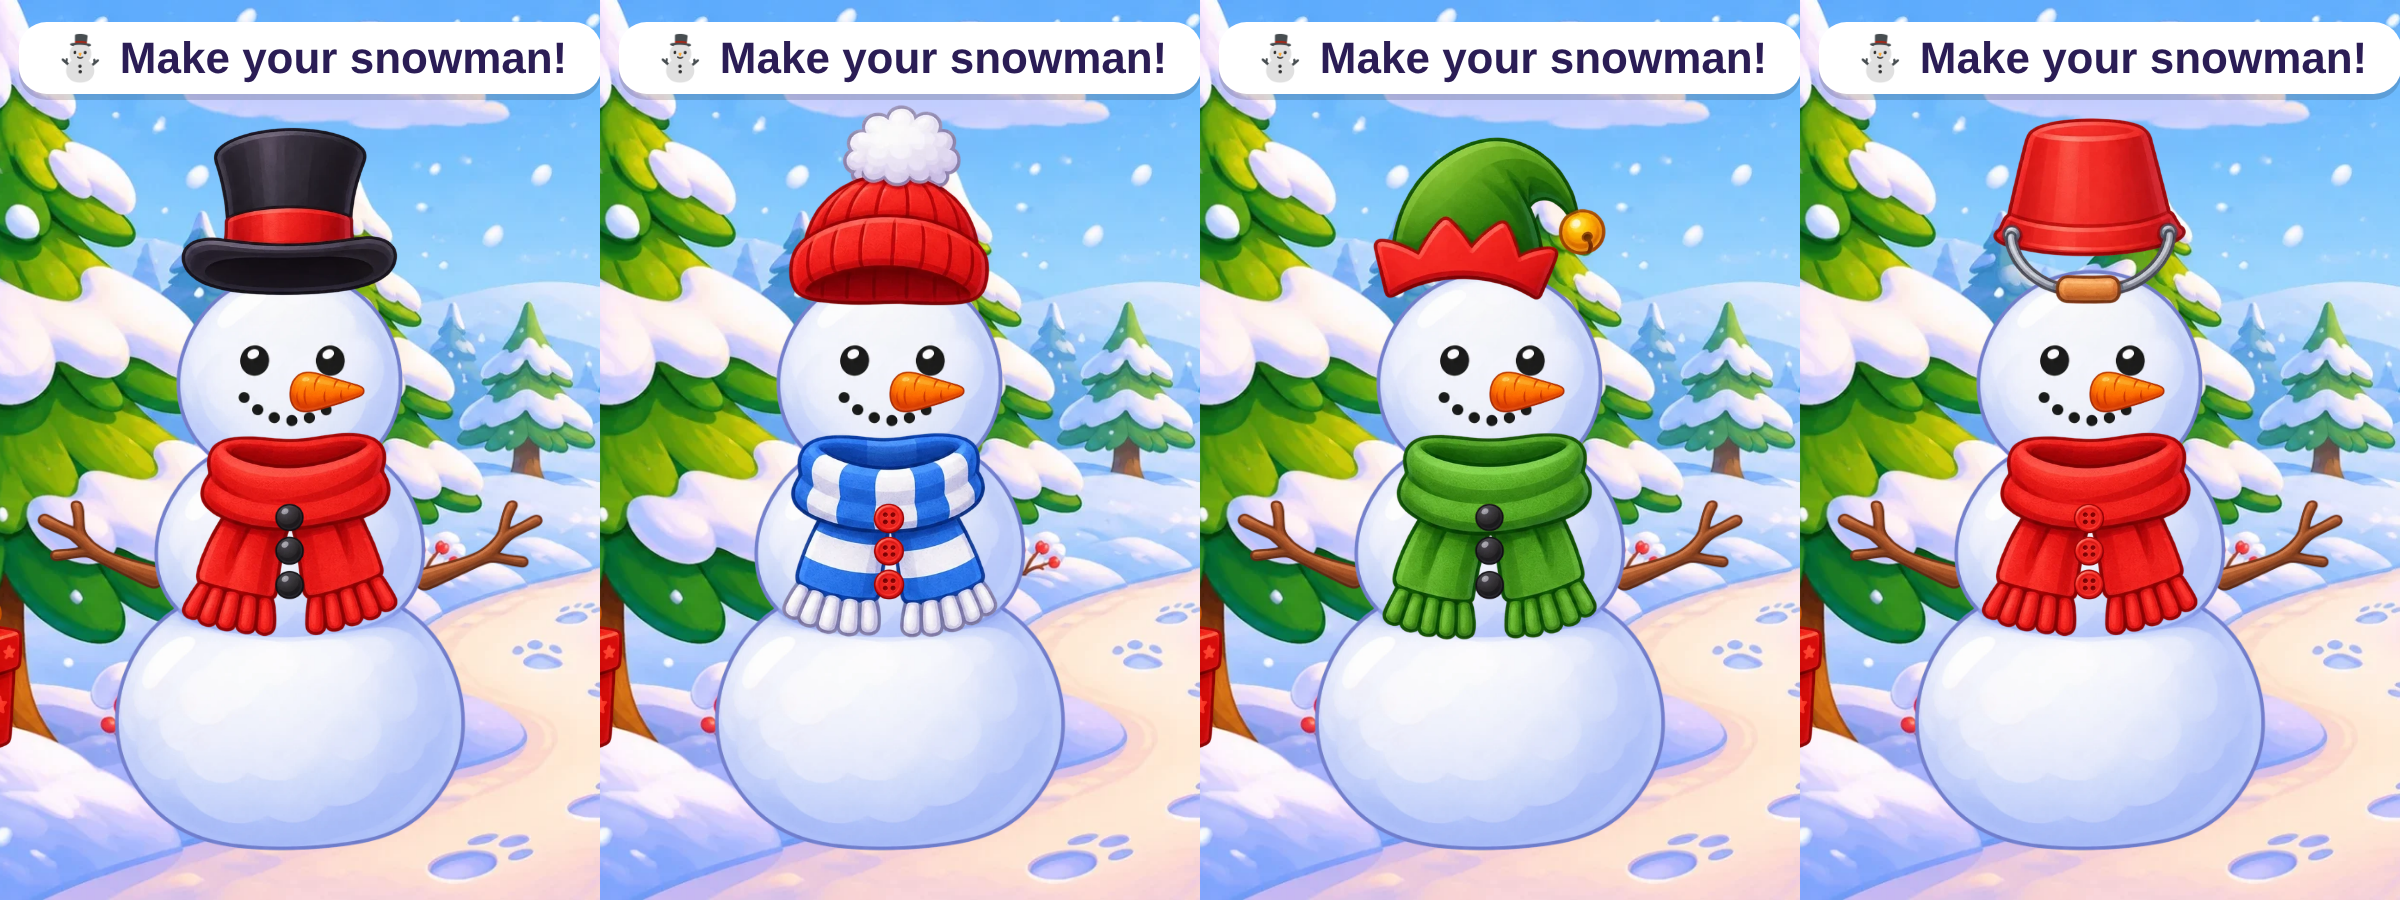
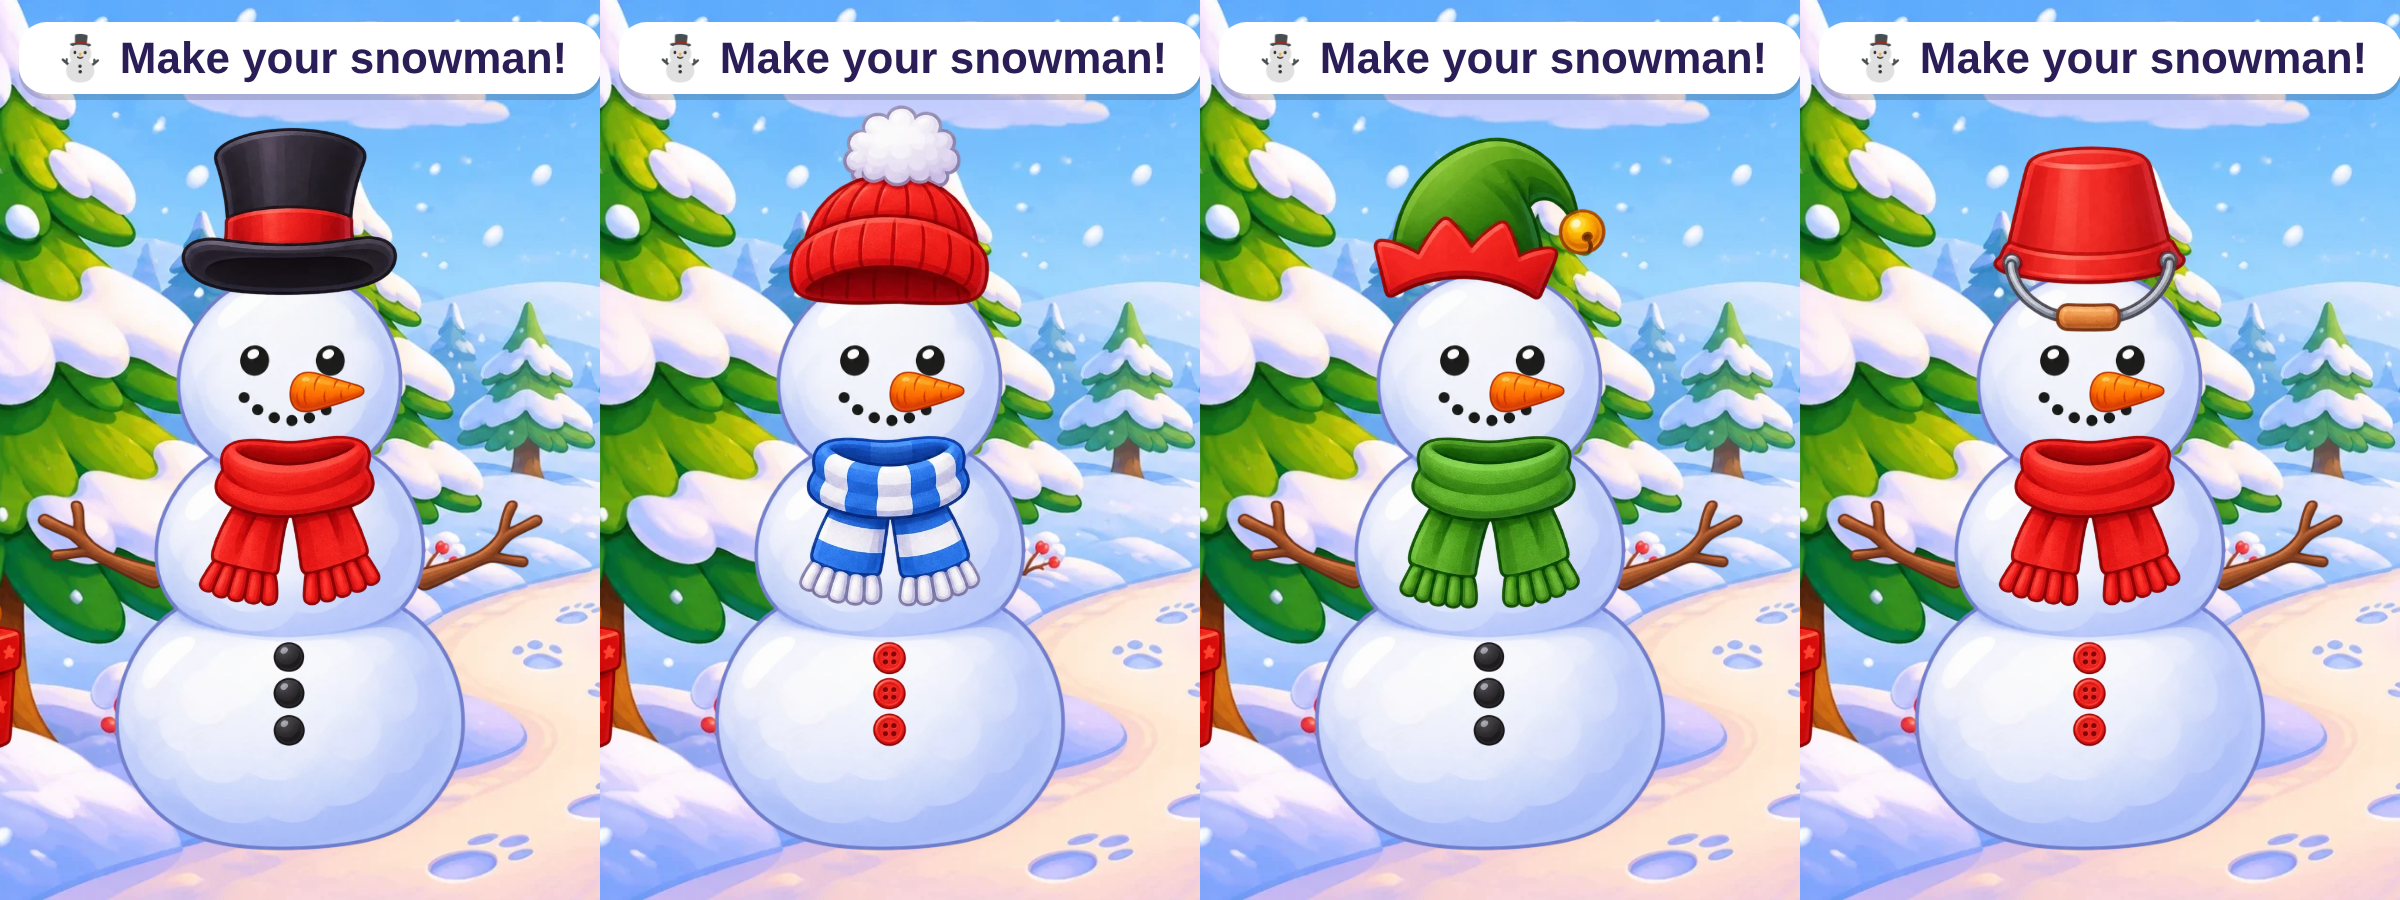
New Year 4-6: снеговик — пуговицы на нижний ком, шарф уже; промпт 14 (звёзды с настроением)
Claude-Session: https://claude.ai/code/session_019ZphQUTHZfoLTjHoCTTcK2

diff --git a/lessons/newyear/4-6.html b/lessons/newyear/4-6.html
@@ -365,8 +365,8 @@ $('stage').addEventListener('pointerdown',e=>{if(ORDER[cur]==='torch'){tMouse=pt
 const SM_W=975,SM_H=1508,SMS=420/975;
 const PARTS={nose:{k:['sm_nose'],w:195,x:476,cy:365,ax:0,z:6},
  hat:{k:['sm_tophat','sm_beanie','sm_elfhat','sm_bucket'],w:{sm_tophat:560,sm_beanie:520,sm_elfhat:600,sm_bucket:500},bottom:{sm_tophat:170,sm_beanie:190,sm_elfhat:180,sm_bucket:250},z:7},
- scarf:{k:['sm_scarf_red','sm_scarf_blue','sm_scarf_green'],w:560,top:430,z:5},
- buttons:{k:['sm_buttons_black','sm_buttons_red'],h:250,cx:486,top:610,z:6},
+ scarf:{k:['sm_scarf_red','sm_scarf_blue','sm_scarf_green'],w:470,top:440,z:5},
+ buttons:{k:['sm_buttons_black','sm_buttons_red'],h:270,cx:486,top:930,z:6},
  arm_l:{k:['sm_arm_left'],w:330,right:215,top:600,z:0},arm_r:{k:['sm_arm_right'],w:330,left:760,top:600,z:0}};
 const NAT={};
 function slotRect(type,k){const P=PARTS[type],n=NAT[k];const ar=n.h/n.w;let w,h,l,t;

diff --git a/builds/newyear/4-6/prompty.md b/builds/newyear/4-6/prompty.md
@@ -77,3 +77,9 @@ Row 1, left to right: an open yellow umbrella; a warm red knitted scarf lying fo
 Row 2, left to right: a red knitted winter hat with a white pompom; a silver cooking pot with a lid; a wicker basket.
 Transparent background, no background at all, cut-out PNG with alpha channel, no shadow. No text, no letters, no labels, no numbers.
 ```
+
+## 14. Звёздочки с настроением — для «How are you?» (вместо тыкв Halloween)
+
+```
+Use the attached dragon picture only as a STYLE reference: the same cute 3D cartoon look, soft rounded shapes, bright friendly colours, clean studio lighting. Draw a sheet of three cute golden five-pointed stars with faces, in one row, left to right: 1) a very happy star with a big open smile and rosy cheeks; 2) a sad star with a down-turned mouth and one small tear; 3) an angry star with frowning eyebrows and a pouting mouth, cheeks slightly red. All three the same size, same golden colour and same shape, only the face differs. Transparent background, no background at all, cut-out PNG with alpha channel, no floor, no shadow on the ground. Wide empty gaps between the stars, every star complete and not touching any other star or the edge. No text, no letters, no labels, no numbers.
+```

diff --git a/builds/zhdem_ot_anny.md b/builds/zhdem_ot_anny.md
@@ -80,8 +80,7 @@
 ## Чат «Halloween (курс Holidays)» — теперь и New Year
 
 
-🔴 **35.** Снеговик: четыре сочетания шапки, шарфа и пуговиц — так ли собирается (`builds/newyear/4-6/snegovik_prevyu.png`).
-🔴 **36.** Все экраны урока 4–6 на скриншотах — что поправить (`builds/newyear/4-6/ekrany_1.png`, `ekrany_2.png`).
+🔴 **37.** Сгенерировать промпт 14 — три звёздочки с настроением для «How are you?» (текст — в чате и в `builds/newyear/4-6/prompty.md`).
 
 Концепция New Year — `builds/newyear/koncepciya.md`, решения — `builds/newyear/resheniya.md`.
 
